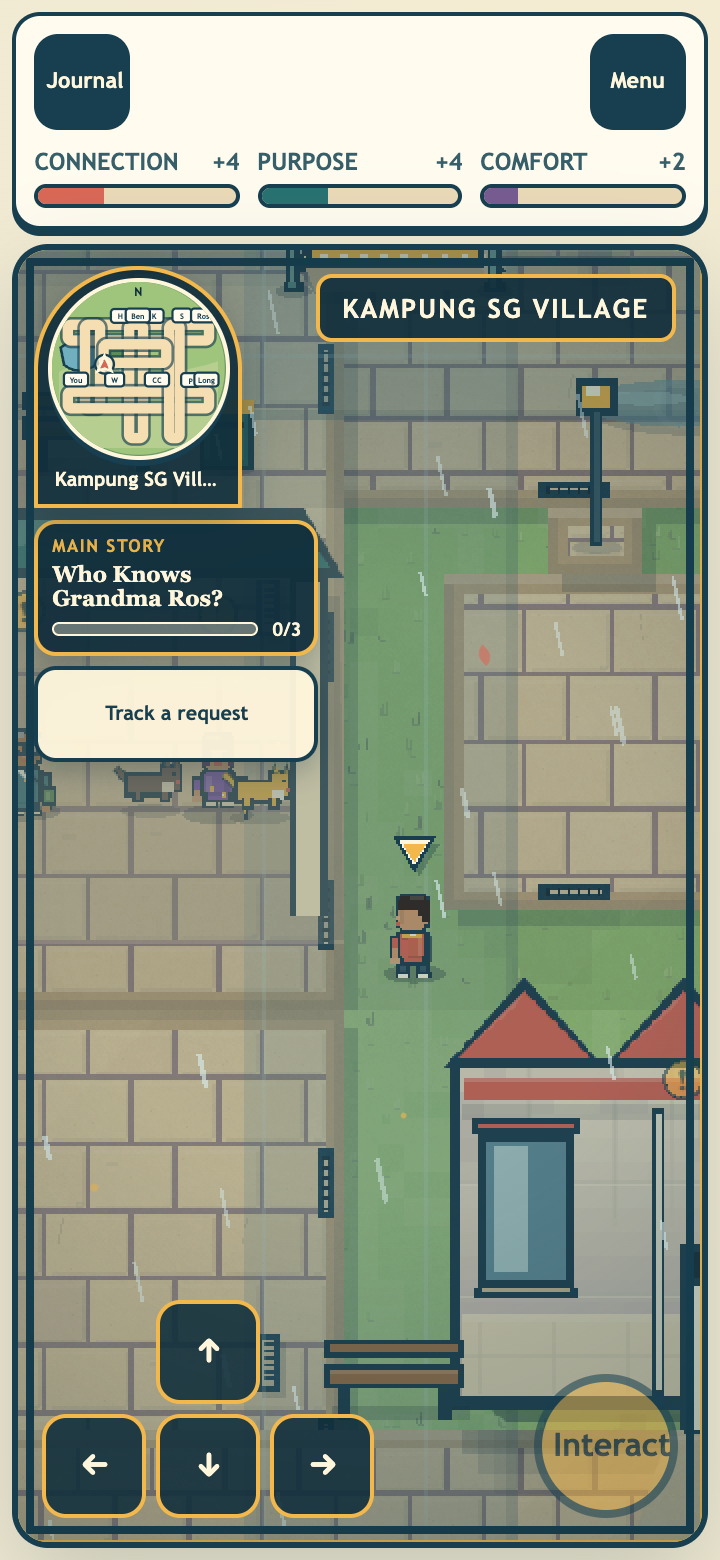
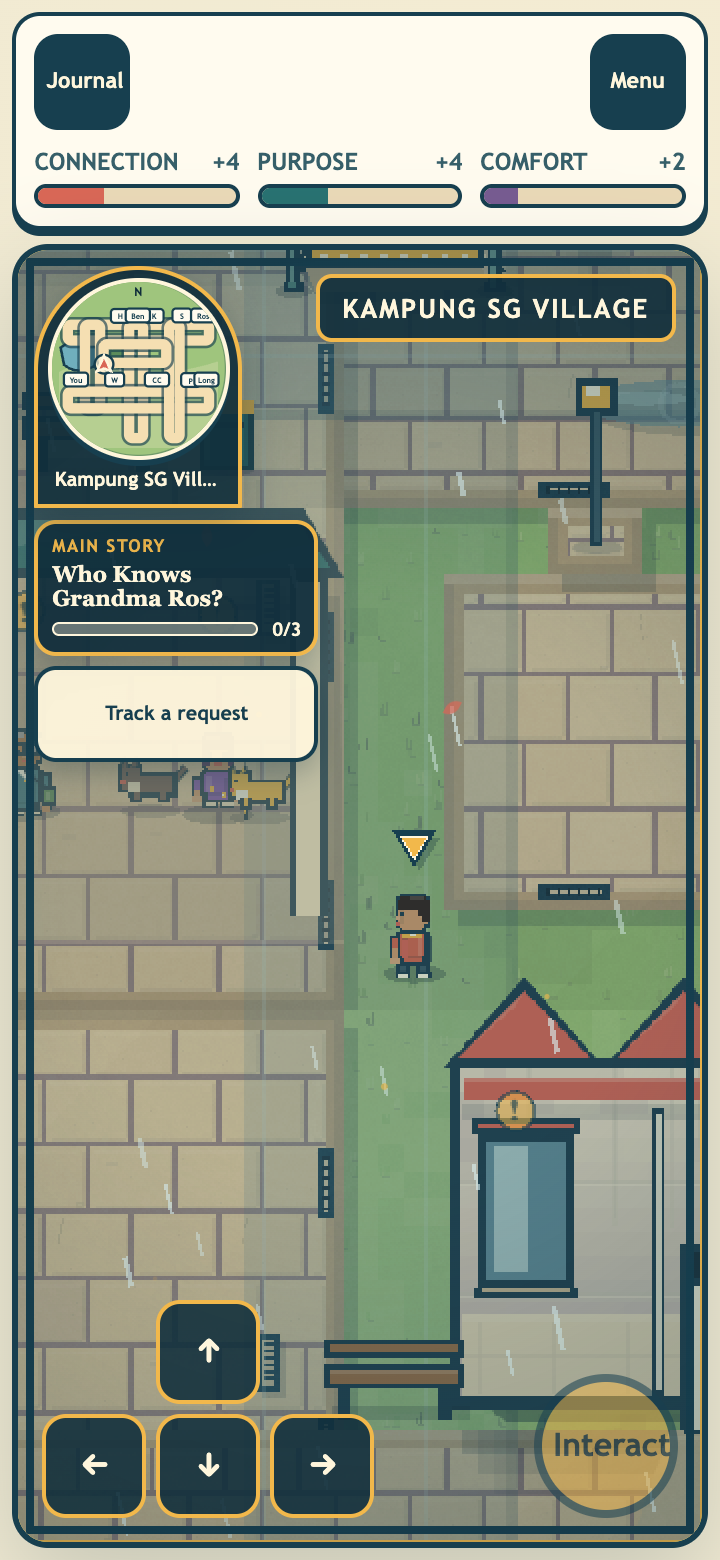
Stand the estate's props up in isometric too
The buildings and ground were isometric but everything on them was still a
top-down texture standing as a billboard - benches seen from above, a shelter
roof drawn as a flat rectangle. That reads worse than either projection on its
own.

Trees, hedges, planters, flower beds, pandan, bike racks, chess tables, chair
stacks, the shaded seating and the maintenance trolley now use their isometric
textures. Those already existed in isoProps.ts; the estate simply never asked
for them. `isoTextureFor` returns the key unchanged for anything not yet
redrawn, so a prop without an isometric version keeps standing rather than
vanishing.

The isometric grass gets the clumping the top-down ground got last commit -
density off a squared lushness field, thick where sheltered and worn to nothing
where people walk, blooms only where it is thick enough to support them.

And the void around the world is no longer mid-green. Isometric projects the
world into a diamond, so the corners of the viewport fall outside it; a green
there reads as missing ground. A deep desaturated haze reads as distance
instead, with the village an island of colour in it.

Default unchanged and verified: 72/72 with the flag off.

Gate: typecheck clean, 172 unit tests, 72 browser checks, 0 vulnerabilities.

diff --git a/src/game/campaignScene.ts b/src/game/campaignScene.ts
@@ -75,6 +75,10 @@ import {
   isoBuildingTextureBounds,
   paintIsoBuilding,
 } from "./iso/isoBuildings.js";
+import {
+  ensureIsoPropTextures,
+  isoTextureFor,
+} from "./iso/isoProps.js";
 import { paintIsoTerrain } from "./iso/isoTerrain.js";
 import {
   isoCanvasForWorld,
@@ -2584,9 +2588,16 @@ export class EstateScene extends WalkableScene {
 
   create(data: SceneStartData = {}): void {
     this.locationId = "estate";
-    this.cameras.main.setBackgroundColor("#9fc079");
+    // Isometric projects the world into a diamond, so the corners of the
+    // viewport fall outside it. A mid-green there reads as missing ground;
+    // a deep, desaturated haze reads as distance, and the village as an island
+    // of colour in it.
+    this.cameras.main.setBackgroundColor(
+      this.isometric ? "#3f5a48" : "#9fc079",
+    );
     ensureCampaignArtTextures(this, this.getState().playerAppearance);
     if (this.isometric) {
+      ensureIsoPropTextures(this);
       this.createIsoGround();
       this.createIsoBuildings();
     } else {
@@ -3088,6 +3099,17 @@ export class EstateScene extends WalkableScene {
    * Same shape as the top-down bake: paint flat with Graphics, then run the
    * per-pixel grain pass, because Graphics can only lay down constant fills.
    */
+  /**
+   * The isometric stand-in for a shipped texture, when there is one.
+   *
+   * `isoTextureFor` returns the key unchanged for anything without an
+   * isometric version, so a prop that has not been redrawn yet keeps standing
+   * as an upright billboard rather than vanishing.
+   */
+  private propTexture(key: string): string {
+    return this.isometric ? isoTextureFor(key) : key;
+  }
+
   private createIsoGround(): void {
     const canvas = isoCanvasForWorld(ESTATE_WIDTH, ESTATE_HEIGHT);
     const height = canvas.height + 80;
@@ -3209,10 +3231,20 @@ export class EstateScene extends WalkableScene {
       const texture = ensureShelterTexture(this, definition);
       this.shelterSprites.push(
         this.add
-          .image(definition.bounds.x, definition.bounds.y, texture)
+          .image(
+            this.screenX(definition.bounds.x, definition.bounds.y),
+            this.screenY(definition.bounds.x, definition.bounds.y),
+            texture,
+          )
           .setOrigin(0)
           .setName(`shelter:${definition.id}`)
-          .setDepth(depthFor(definition.bounds.y + definition.bounds.height, 4)),
+          .setDepth(
+            this.depthAt(
+              definition.bounds.x,
+              definition.bounds.y + definition.bounds.height,
+              4,
+            ),
+          ),
       );
       for (const post of definition.posts) {
         if (this.shelterColliderIds.has(post.id)) continue;
@@ -3418,9 +3450,13 @@ export class EstateScene extends WalkableScene {
         trunkCollider.height,
       );
       const sprite = this.add
-        .sprite(anchor.x, anchor.y, definition.texture)
+        .sprite(
+          this.screenX(anchor.x, anchor.y),
+          this.screenY(anchor.x, anchor.y),
+          this.propTexture(definition.texture),
+        )
         .setOrigin(0.5, 1)
-        .setDepth(depthFor(anchor.y, definition.depthLayer));
+        .setDepth(this.depthAt(anchor.x, anchor.y, definition.depthLayer));
       this.exteriorPropSprites.push(sprite);
     }
 
@@ -3433,9 +3469,13 @@ export class EstateScene extends WalkableScene {
         collider.height,
       );
       const sprite = this.add
-        .sprite(anchor.x, anchor.y, definition.texture)
+        .sprite(
+          this.screenX(anchor.x, anchor.y),
+          this.screenY(anchor.x, anchor.y),
+          this.propTexture(definition.texture),
+        )
         .setOrigin(0.5, 1)
-        .setDepth(depthFor(anchor.y, definition.depthLayer));
+        .setDepth(this.depthAt(anchor.x, anchor.y, definition.depthLayer));
       this.landscapeSprites.push(sprite);
       this.exteriorPropSprites.push(sprite);
     }
@@ -3474,9 +3514,9 @@ export class EstateScene extends WalkableScene {
         this.addObstacle(left, top, width, height);
       }
       const sprite = this.add
-        .sprite(x, y, texture)
+        .sprite(this.screenX(x, y), this.screenY(x, y), this.propTexture(texture))
         .setOrigin(0.5, 1)
-        .setDepth(depthFor(y - 50, 2));
+        .setDepth(this.depthAt(x, y - 50, 2));
       this.exteriorPropSprites.push(sprite);
     }
 
@@ -3502,9 +3542,9 @@ export class EstateScene extends WalkableScene {
     for (const [texture, x, y, collides] of props) {
       if (collides) this.addObstacle(x - 35, y - 18, 70, 18);
       const sprite = this.add
-        .sprite(x, y, texture)
+        .sprite(this.screenX(x, y), this.screenY(x, y), this.propTexture(texture))
         .setOrigin(0.5, 1)
-        .setDepth(depthFor(y, 4));
+        .setDepth(this.depthAt(x, y, 4));
       this.exteriorPropSprites.push(sprite);
     }
 
@@ -3512,9 +3552,13 @@ export class EstateScene extends WalkableScene {
       const { anchor, collider } = definition;
       this.addObstacle(collider.x, collider.y, collider.width, collider.height);
       const sprite = this.add
-        .sprite(anchor.x, anchor.y, definition.texture)
+        .sprite(
+          this.screenX(anchor.x, anchor.y),
+          this.screenY(anchor.x, anchor.y),
+          this.propTexture(definition.texture),
+        )
         .setOrigin(0.5, 1)
-        .setDepth(depthFor(anchor.y, definition.depthLayer));
+        .setDepth(this.depthAt(anchor.x, anchor.y, definition.depthLayer));
       this.exteriorPropSprites.push(sprite);
     }
 
@@ -3526,7 +3570,11 @@ export class EstateScene extends WalkableScene {
         BICYCLE_COLLISION_DEPTH,
       );
       const sprite = this.add
-        .sprite(rack.x, rack.y, "prop-bike-rack")
+        .sprite(
+          this.screenX(rack.x, rack.y),
+          this.screenY(rack.x, rack.y),
+          this.propTexture("prop-bike-rack"),
+        )
         .setOrigin(0.5, 1)
         .setDepth(depthFor(rack.y, 4));
       this.exteriorPropSprites.push(sprite);
@@ -3547,9 +3595,9 @@ export class EstateScene extends WalkableScene {
     for (const [texture, x, y, width, height] of districtProps) {
       this.addObstacle(x - width / 2, y - height, width, height);
       const sprite = this.add
-        .sprite(x, y, texture)
+        .sprite(this.screenX(x, y), this.screenY(x, y), this.propTexture(texture))
         .setOrigin(0.5, 1)
-        .setDepth(depthFor(y, 4));
+        .setDepth(this.depthAt(x, y, 4));
       this.exteriorPropSprites.push(sprite);
     }
 
@@ -3567,9 +3615,9 @@ export class EstateScene extends WalkableScene {
         collisionHeight,
       );
       const sprite = this.add
-        .sprite(x, y, texture)
+        .sprite(this.screenX(x, y), this.screenY(x, y), this.propTexture(texture))
         .setOrigin(0.5, 1)
-        .setDepth(depthFor(y, 4));
+        .setDepth(this.depthAt(x, y, 4));
       this.storyClusterSprites.push(sprite);
       this.exteriorPropSprites.push(sprite);
     }

diff --git a/src/game/iso/isoTerrain.ts b/src/game/iso/isoTerrain.ts
@@ -30,6 +30,7 @@ import {
 import { isoCellCorners, isoHash, TERRAIN_CELL, PAVING_SLAB } from "./projection.js";
 import {
   dither,
+  macroField,
   ramp,
   rimLight,
   SHADOW_TINT,
@@ -260,7 +261,14 @@ export function paintIsoTerrain(
 
         // Blade clumps drawn at quarter-cell so they read as texture rather
         // than washing the whole cell toward one average.
-        const clumps = 2 + (seed % 3);
+        //
+        // Density follows a low-frequency lushness field, squared, exactly as
+        // the top-down ground does: thick where it is damp and sheltered, worn
+        // to nothing where people walk. A constant rate of clumps per cell is
+        // what made this plane read as flat green from any distance.
+        const lush = macroField(centreX + 51, centreY + 907, 260) * 0.62
+          + macroField(centreX + 613, centreY + 77, 88) * 0.38;
+        const clumps = Math.round(lush * lush * 10);
         for (let clump = 0; clump < clumps; clump += 1) {
           const bladeSeed = isoHash(x + clump * 31, y + clump * 17);
           const offsetX = x + (bladeSeed % (TERRAIN_CELL - 8));
@@ -271,8 +279,8 @@ export function paintIsoTerrain(
           );
           drawSubCell(offsetX, offsetY, TERRAIN_CELL / 2.4, bladeTone, 0.85);
         }
-        // Occasional bloom fleck, matching the reference's scattered flowers.
-        if (seed % 17 === 5) {
+        // Blooms only where the turf is thick enough to support them.
+        if (lush > 0.56 && seed % 9 === 5) {
           const bloom = [0xe8c46a, 0xd97a58, 0xf2ead2, 0xc9a2cf][(seed >>> 5) % 4];
           drawSubCell(x + 8, y + 8, TERRAIN_CELL / 4, bloom, 0.75);
         }
